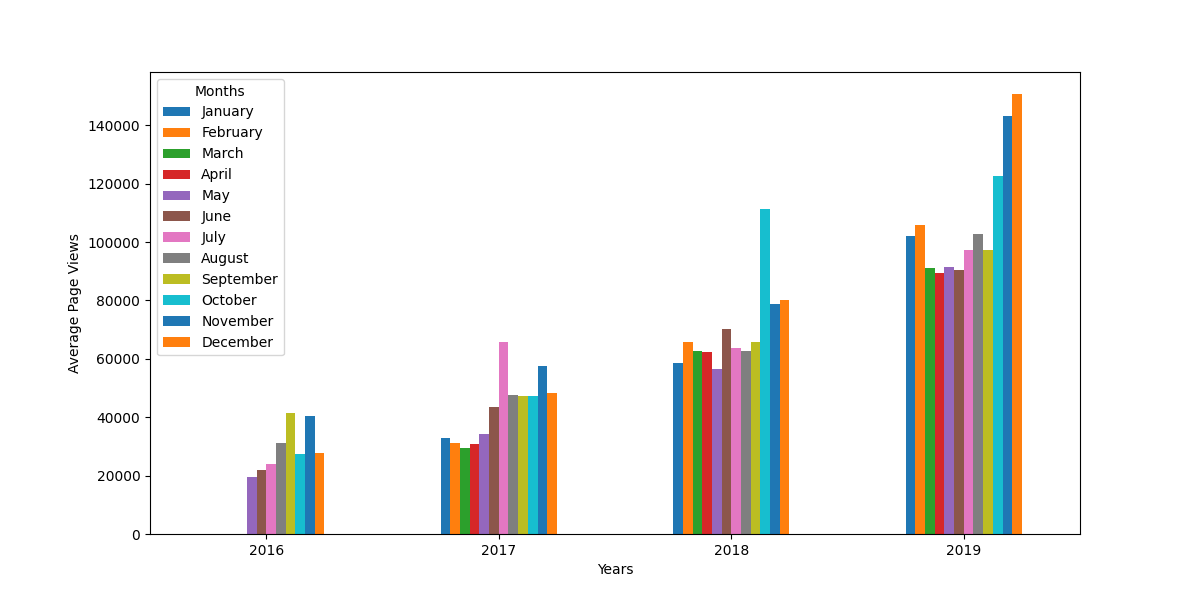
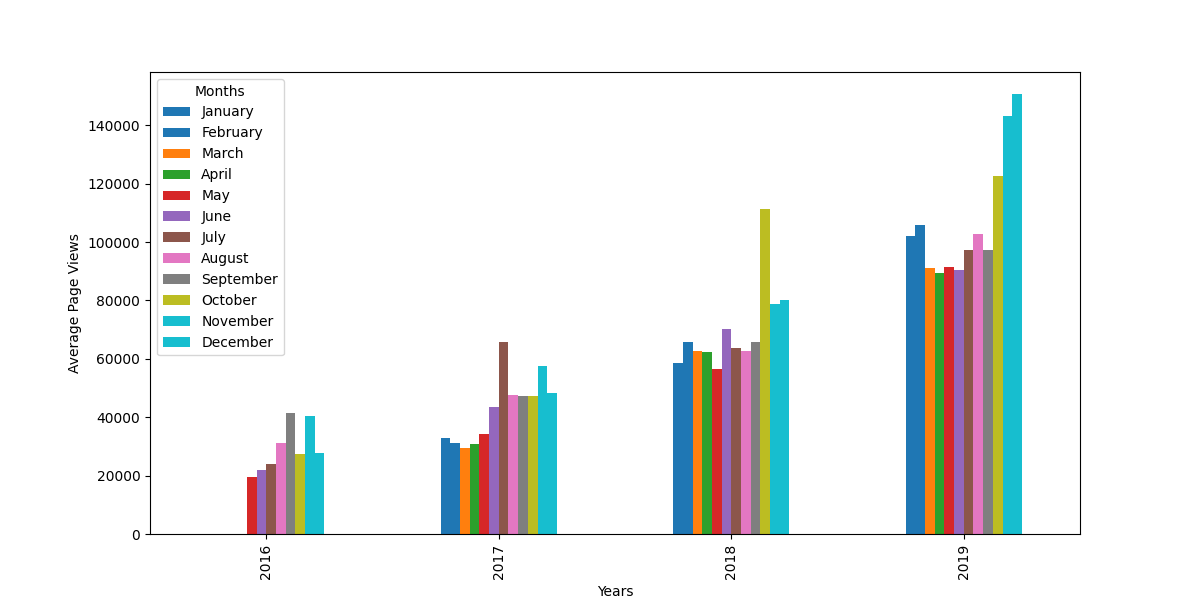
page-view-time-series-visualizer

diff --git a/time_series_visualizer.py b/time_series_visualizer.py
@@ -12,65 +12,80 @@ df = df[
 ]
 
 def draw_line_plot():
-    # Draw line plot
+    """Draws a line plot for daily page views over time."""
+    
     fig, ax = plt.subplots(figsize=(12, 5))
+    
+    # Plot the data
     ax.plot(df.index, df["value"], color="red", linewidth=1)
-
-    # Formatting
+    
+    # Set title and labels
     ax.set_title("Daily freeCodeCamp Forum Page Views 5/2016-12/2019")
     ax.set_xlabel("Date")
     ax.set_ylabel("Page Views")
-
-    # Save image
+    
+    # Save image and return fig
     fig.savefig('line_plot.png')
     return fig
 
+
 def draw_bar_plot():
-    # Prepare data for bar plot
+    """Draws a bar plot for average monthly page views by year."""
+    
+    # Prepare data
     df_bar = df.copy()
     df_bar["year"] = df_bar.index.year
-    df_bar["month"] = df_bar.index.month
+    df_bar["month"] = df_bar.index.strftime('%B')  # FULL month names
 
+    # Group and compute monthly averages
     df_bar = df_bar.groupby(["year", "month"])["value"].mean().unstack()
 
+    # Define month order
+    month_order = ["January", "February", "March", "April", "May", "June", 
+                   "July", "August", "September", "October", "November", "December"]
+
     # Draw bar plot
-    fig = df_bar.plot(kind="bar", figsize=(10, 6)).figure
+    fig, ax = plt.subplots(figsize=(12, 6))
+    df_bar = df_bar[month_order]  # Reorder months correctly
+    df_bar.plot(kind="bar", ax=ax, colormap="tab10")
 
     # Formatting
-    plt.xlabel("Years")
-    plt.ylabel("Average Page Views")
-    plt.legend(title="Months", labels=[
-        "January", "February", "March", "April", "May", "June", "July", "August",
-        "September", "October", "November", "December"
-    ])
+    ax.set_xlabel("Years")
+    ax.set_ylabel("Average Page Views")
+    ax.legend(title="Months", labels=month_order)
 
-    # Save image
+    # Save image and return fig
     fig.savefig('bar_plot.png')
     return fig
 
+
 def draw_box_plot():
+    """Draws two box plots: Year-wise and Month-wise page views."""
+
     # Prepare data for box plots
     df_box = df.copy()
     df_box["year"] = df_box.index.year
-    df_box["month"] = df_box.index.strftime("%b")  # Use short month names
+    df_box["month"] = df_box.index.strftime('%B')  # FULL month names
 
-    # Sort months in correct order
-    month_order = ["Jan", "Feb", "Mar", "Apr", "May", "Jun", "Jul", "Aug", "Sep", "Oct", "Nov", "Dec"]
+    # Define month order
+    month_order = ["January", "February", "March", "April", "May", "June", 
+                   "July", "August", "September", "October", "November", "December"]
     
+    # Create subplots
     fig, axes = plt.subplots(1, 2, figsize=(15, 5))
 
     # Year-wise box plot
-    sns.boxplot(x="year", y="value", data=df_box, ax=axes[0])
+    sns.boxplot(x="year", y="value", data=df_box, ax=axes[0], hue="year", legend=False)
     axes[0].set_title("Year-wise Box Plot (Trend)")
     axes[0].set_xlabel("Year")
     axes[0].set_ylabel("Page Views")
 
     # Month-wise box plot
-    sns.boxplot(x="month", y="value", data=df_box, order=month_order, ax=axes[1])
+    sns.boxplot(x="month", y="value", data=df_box, order=month_order, ax=axes[1], hue="month", legend=False)
     axes[1].set_title("Month-wise Box Plot (Seasonality)")
     axes[1].set_xlabel("Month")
     axes[1].set_ylabel("Page Views")
 
-    # Save image
+    # Save image and return fig
     fig.savefig('box_plot.png')
     return fig
